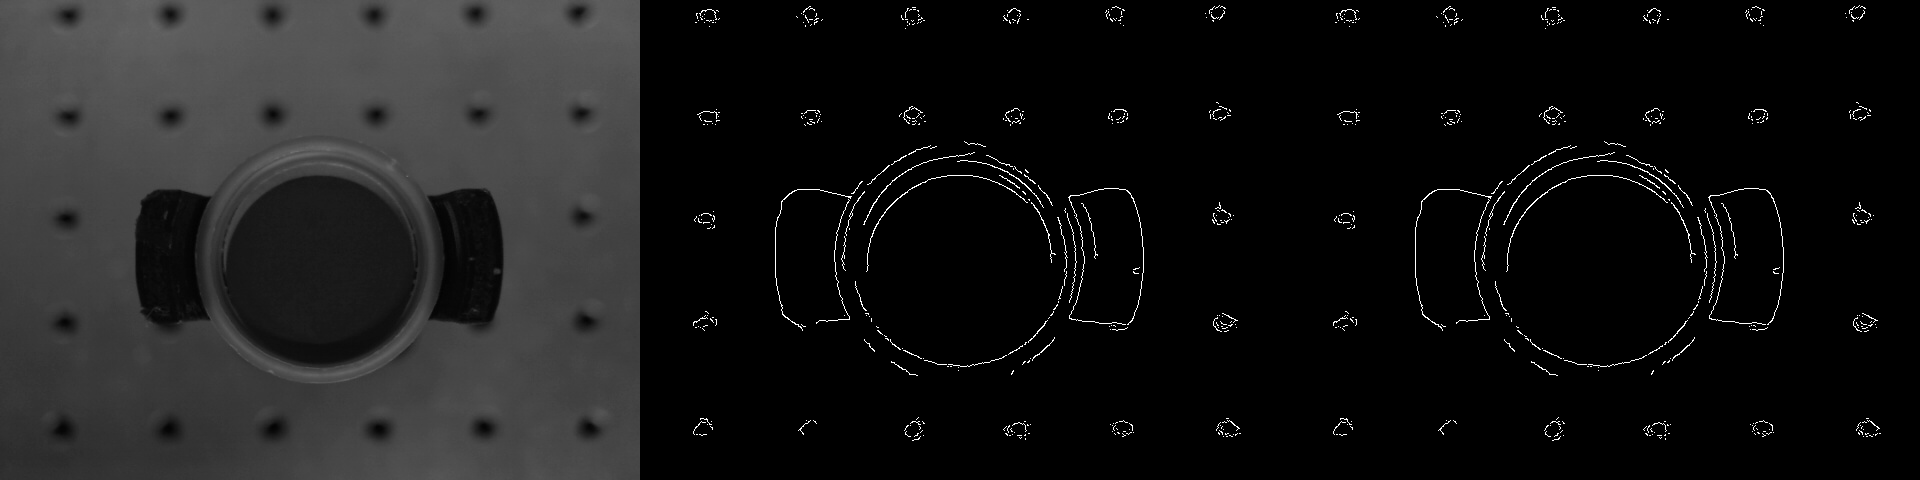
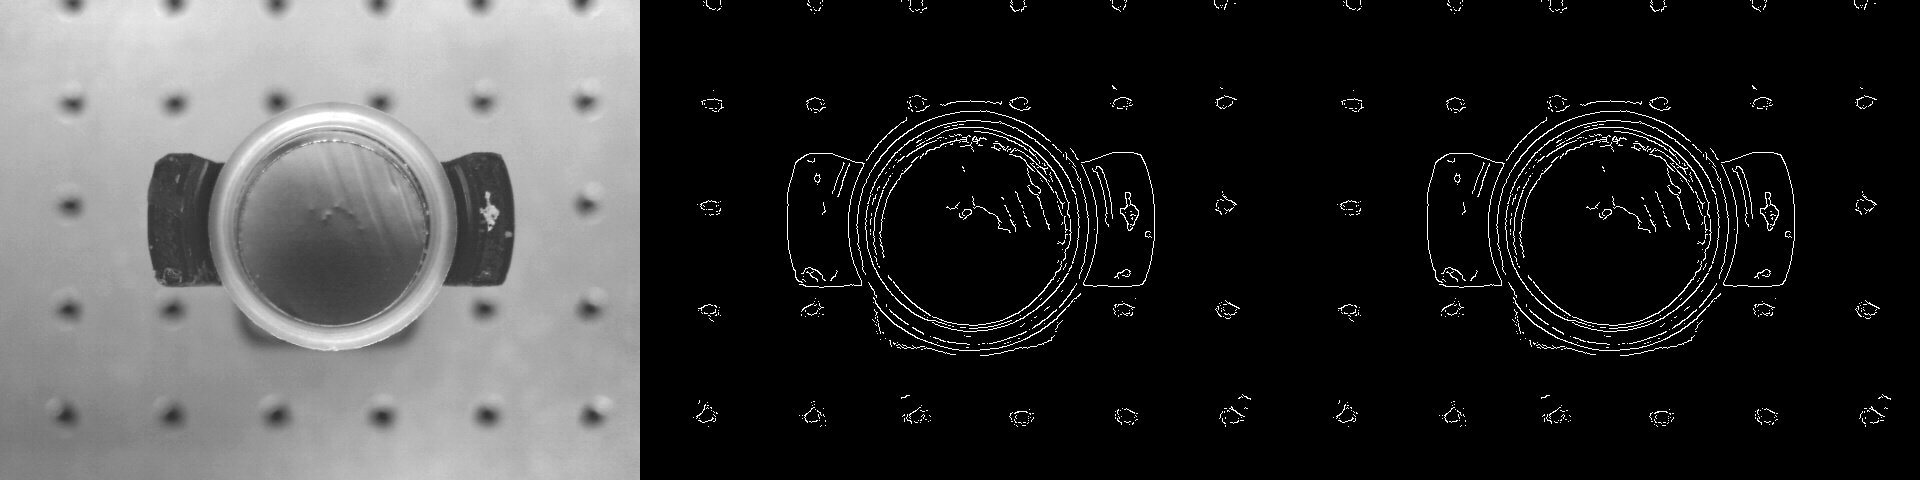
Cycle detection testing

diff --git a/circle_detection.py b/circle_detection.py
@@ -1,12 +1,16 @@
 import sys, os
+import re
 import cv2 as cv
 import numpy as np
+import matplotlib.pyplot as plt
 
 #pylint: disable=no-member
 
 CENTER = (304, 236)
 IMG_COLOR = None
 IMG_GRAY = None
+DETECTED_CASE = []
+DETECTED_ELECTRODE = []
 
 def open_image(file_name):
     # Load an color image in grayscale
@@ -19,7 +23,13 @@ def open_image(file_name):
         print ('Usage: hough_circle.py [image_name -- default ' + file_name + '] \n')
         sys.exit()
     IMG_GRAY = cv.cvtColor(IMG_COLOR, cv.COLOR_BGR2GRAY)
-    IMG_GRAY = cv.medianBlur(IMG_GRAY, 5)
+    #IMG_GRAY = cv.GaussianBlur(IMG_GRAY, (1,1), 1)
+    IMG_GRAY = cv.medianBlur(IMG_GRAY, 3)
+    #IMG_GRAY = cv.adaptiveThreshold(IMG_GRAY,255,cv.ADAPTIVE_THRESH_GAUSSIAN_C,cv.THRESH_BINARY,11,3.5)
+    #kernel = np.ones((2,2),np.uint8)
+    IMG_GRAY = cv.erode(IMG_GRAY, (3,3), iterations=1)
+    IMG_GRAY = cv.dilate(IMG_GRAY, (3,3), iterations=1)
+    #IMG_GRAY = cv.blur(IMG_GRAY, (3, 3))
     return IMG_GRAY
 
 def mark_center_of_holder(img):
@@ -31,8 +41,8 @@ def mark_center_of_holder(img):
     # radius = 115
     # cv.circle(IMG_COLOR, CENTER, radius, (255, 0, 255), 3)
     holder = cv.HoughCircles(img, cv.HOUGH_GRADIENT, 1, 100,
-                               param1=120, param2=30,
-                               minRadius=110, maxRadius=150)
+                               param1=120, param2=20,
+                               minRadius=115, maxRadius=125)
 
     if holder is not None:
         holder = np.uint16(np.around(holder))
@@ -42,16 +52,44 @@ def mark_center_of_holder(img):
             cv.circle(IMG_COLOR, center, 1, (0, 100, 100), 1)
             # circle outline
             radius = i[2]
+            DETECTED_CASE.append(radius)
             cv.circle(IMG_COLOR, center, radius, (255, 0, 255), 1)
             cv.putText(IMG_COLOR, f"Coordinates of holder: {center[0]} , {center[1]} Radius: {i[2]}", (10, 400),
                        cv.FONT_HERSHEY_SIMPLEX, 0.5, (0, 0, 255), 1)
+            #print(f"Casing: Center_({center[0]} , {center[1]}), Radius_{i[2]}")
 
-def detect_inner_circle(img):
+def mark_reference_center(img):
+    global IMG_COLOR
+    
+    # #circle center
+    # cv.circle(IMG_COLOR, CENTER, 1, (0, 100, 100), 3)
+    # #circle outline
+    # radius = 115
+    # cv.circle(IMG_COLOR, CENTER, radius, (255, 0, 255), 3)
+    holder = cv.HoughCircles(img, cv.HOUGH_GRADIENT, 1, 100,
+                               param1=120, param2=20,
+                               minRadius=10, maxRadius=20)
+
+    if holder is not None:
+        holder = np.uint16(np.around(holder))
+        for i in holder[0, :]:
+            center = (i[0], i[1])
+            # circle center
+            cv.circle(IMG_COLOR, center, 1, (0, 100, 100), 1)
+            # circle outline
+            radius = i[2]
+            DETECTED_CASE.append(radius)
+            cv.circle(IMG_COLOR, center, radius, (255, 0, 255), 1)
+            cv.putText(IMG_COLOR, f"Coordinates of Reference: {center[0]} , {center[1]} Radius: {i[2]}", (10, 400),
+                       cv.FONT_HERSHEY_SIMPLEX, 0.5, (0, 0, 255), 1)
+            #print(f"Casing: Center_({center[0]} , {center[1]}), Radius_{i[2]}")
+
+def detect_anode_circle(img):
     global IMG_COLOR
     #Detect the inner circle
     circles = cv.HoughCircles(img, cv.HOUGH_GRADIENT, 1, 100,
-                               param1=120, param2=30,
-                               minRadius=40, maxRadius=100)
+                               param1=120, param2=25,
+                               minRadius=85, maxRadius=96)
 
     # Mark the center of the inner circle
     if circles is not None:
@@ -62,27 +100,70 @@ def detect_inner_circle(img):
             cv.circle(IMG_COLOR, center, 1, (0, 100, 100), 1)
             # circle outline
             radius = i[2]
+            DETECTED_ELECTRODE.append(radius)
             cv.circle(IMG_COLOR, center, radius, (255, 0, 255), 1)
             cv.putText(IMG_COLOR, f"Coordinates of anode: {center[0]} , {center[1]}. Radius: {i[2]}", (10, 440),
                        cv.FONT_HERSHEY_SIMPLEX, 0.5, (0, 0, 255), 1)
+            #print(f"Anode: Center_({center[0]} , {center[1]}), Radius_{i[2]}")
+
+def detect_cathode_circle(img):
+    global IMG_COLOR
+    #Detect the inner circle
+    circles = cv.HoughCircles(img, cv.HOUGH_GRADIENT, 1, 100,
+                               param1=120, param2=22,
+                               minRadius=86, maxRadius=92)
+
+    # Mark the center of the inner circle
+    if circles is not None:
+        circles = np.uint16(np.around(circles))
+        for i in circles[0, :]:
+            center = (i[0], i[1])
+            # circle center
+            cv.circle(IMG_COLOR, center, 1, (0, 100, 100), 1)
+            # circle outline
+            radius = i[2]
+            DETECTED_ELECTRODE.append(radius)
+            cv.circle(IMG_COLOR, center, radius, (255, 0, 255), 1)
+            cv.putText(IMG_COLOR, f"Coordinates of cathode: {center[0]} , {center[1]}. Radius: {i[2]}", (10, 440),
+                       cv.FONT_HERSHEY_SIMPLEX, 0.5, (0, 0, 255), 1)
+            #print(f"Cathode: Center_({center[0]} , {center[1]}), Radius_{i[2]}")
 
 def main():
 
-    default_file = 'trial_anode/2022_11_17_14h_32m_53s.jpg'
+    default_file = 'trial_anode/anode/2022_11_17_14h_32m_53s.jpg'
     #default_file = sys.argv[1] if len(sys.argv) > 1  else default_file
-    for file in os.listdir("trial_anode"):
+    electrode = input("Folder to test(anode/cathode): ")
+    folder = os.path.join(r"trial_anode", electrode)
+    group = []
+    for file in os.listdir(folder):
+        group.append(re.findall(r'\d+', file)[0])
         # join the path and filename
-        path = os.path.join("trial_anode", file)
+        path = os.path.join(folder, file)
         img_gray = open_image(path)
-        mark_center_of_holder(img_gray)
         #mark_center_of_holder(img_gray)
+        mark_reference_center(img_gray)
         
         #img_circle_color = detect_inner_circle(img_color)
-        detect_inner_circle(img_gray)
+        if electrode == 'anode':
+            detect_anode_circle(img_gray)
+        elif electrode == 'cathode':
+            detect_cathode_circle(img_gray)
 
         cv.imshow("detected circles", IMG_COLOR)
-        cv.waitKey(5000)
-
+        cmd = cv.waitKey(0)
+        if cmd == ord('q'):
+            break
+        elif cmd == ord('d'):
+            continue
+    cv.destroyAllWindows()
+    plt.plot(group, DETECTED_CASE, label='Reference_radius', marker = 'o')
+    plt.plot(group, DETECTED_ELECTRODE, label=f'{electrode.capitalize()}_radius', marker = 'o')
+    plt.legend()
+    plt.xlabel(f"{electrode.capitalize()} Number")
+    plt.ylabel(f"{electrode.capitalize()} Radius")
+    plt.title(f"Detected Radius from {electrode}")
+    plt.show()
     return 0
+
 if __name__ == "__main__":
     main()

diff --git a/MSER_detection.py b/MSER_detection.py
@@ -1,0 +1,79 @@
+import cv2 as cv
+import numpy as np
+
+output = cv.LoadImage('trial_anode/anode/2022_11_17_14h_32m_53s.jpg')
+orig = cv.LoadImage('trial_anode/anode/2022_11_17_14h_32m_53s.jpg')
+
+# create tmp images
+rrr=cv.CreateImage((orig.width,orig.height), cv.IPL_DEPTH_8U, 1)
+ggg=cv.CreateImage((orig.width,orig.height), cv.IPL_DEPTH_8U, 1)
+bbb=cv.CreateImage((orig.width,orig.height), cv.IPL_DEPTH_8U, 1)
+processed = cv.CreateImage((orig.width,orig.height), cv.IPL_DEPTH_8U, 1)
+storage = cv.CreateMat(orig.width, 1, cv.CV_32FC3)
+
+def channel_processing(channel):
+    pass
+    cv.AdaptiveThreshold(channel, channel, 255, adaptive_method=cv.CV_ADAPTIVE_THRESH_MEAN_C, thresholdType=cv.CV_THRESH_BINARY, blockSize=55, param1=7)
+    #mop up the dirt
+    cv.Dilate(channel, channel, None, 1)
+    cv.Erode(channel, channel, None, 1)
+
+def inter_centre_distance(x1,y1,x2,y2):
+    return ((x1-x2)**2 + (y1-y2)**2)**0.5
+
+def colliding_circles(circles):
+    for index1, circle1 in enumerate(circles):
+        for circle2 in circles[index1+1:]:
+            x1, y1, Radius1 = circle1[0]
+            x2, y2, Radius2 = circle2[0]
+            #collision or containment:
+            if inter_centre_distance(x1,y1,x2,y2) < Radius1 + Radius2:
+                return True
+
+def find_circles(processed, storage, LOW):
+    try:
+        cv.HoughCircles(processed, storage, cv.CV_HOUGH_GRADIENT, 2, 32.0, 30, LOW)#, 0, 100) great to add circle constraint sizes.
+    except:
+        LOW += 1
+        #print'try'
+        find_circles(processed, storage, LOW)
+    circles = np.asarray(storage)
+    #print 'number of circles:', len(circles)
+    if colliding_circles(circles):
+        LOW += 1
+        storage = find_circles(processed, storage, LOW)
+    #print 'c', LOW
+    return storage
+
+def draw_circles(storage, output):
+    circles = np.asarray(storage)
+    #print len(circles), 'circles found'
+    for circle in circles:
+        Radius, x, y = int(circle[0][2]), int(circle[0][0]), int(circle[0][1])
+        cv.Circle(output, (x, y), 1, cv.CV_RGB(0, 255, 0), -1, 8, 0)
+        cv.Circle(output, (x, y), Radius, cv.CV_RGB(255, 0, 0), 3, 8, 0)
+
+#split image into RGB components
+cv.Split(orig,rrr,ggg,bbb,None)
+#process each component
+channel_processing(rrr)
+channel_processing(ggg)
+channel_processing(bbb)
+#combine images using logical 'And' to avoid saturation
+cv.And(rrr, ggg, rrr)
+cv.And(rrr, bbb, processed)
+cv.ShowImage('before canny', processed)
+# cv.SaveImage('case3_processed.jpg',processed)
+#use canny, as HoughCircles seems to prefer ring like circles to filled ones.
+cv.Canny(processed, processed, 5, 70, 3)
+#smooth to reduce noise a bit more
+cv.Smooth(processed, processed, cv.CV_GAUSSIAN, 7, 7)
+cv.ShowImage('processed', processed)
+#find circles, with parameter search
+storage = find_circles(processed, storage, 100)
+draw_circles(storage, output)
+# show images
+cv.ShowImage("original with circles", output)
+cv.SaveImage('case1.jpg',output)
+
+cv.WaitKey(0)

diff --git a/real_time_cycle.py b/real_time_cycle.py
@@ -1,0 +1,73 @@
+# import the necessary packages
+import numpy as np
+import argparse
+import cv2
+import time
+
+cap = cv2.VideoCapture(0) # Set Capture Device, in case of a USB Webcam try 1, or give -1 to get a list of available devices
+
+#Set Width and Height 
+# cap.set(3,1280)
+# cap.set(4,720)
+
+# The above step is to set the Resolution of the Video. The default is 640x480.
+# This example works with a Resolution of 640x480.
+
+while(True):
+	# Capture frame-by-frame
+	ret, frame = cap.read()
+
+	# load the image, clone it for output, and then convert it to grayscale
+			
+	output = frame.copy()
+	gray = cv2.cvtColor(frame, cv2.COLOR_BGR2GRAY)
+	
+	# apply GuassianBlur to reduce noise. medianBlur is also added for smoothening, reducing noise.
+	gray = cv2.GaussianBlur(gray,(5,5),0)
+	gray = cv2.medianBlur(gray,5)
+	
+	# Adaptive Guassian Threshold is to detect sharp edges in the Image. For more information Google it.
+	gray = cv2.adaptiveThreshold(gray,255,cv2.ADAPTIVE_THRESH_GAUSSIAN_C,\
+            cv2.THRESH_BINARY,11,3.5)
+	
+	kernel = np.ones((2.6,2.7),np.uint8)
+	gray = cv2.erode(gray,kernel,iterations = 1)
+	# gray = erosion
+	
+	gray = cv2.dilate(gray,kernel,iterations = 1)
+	# gray = dilation
+
+	# get the size of the final image
+	# img_size = gray.shape
+	# print img_size
+	
+	# detect circles in the image
+	circles = cv2.HoughCircles(gray, cv2.HOUGH_GRADIENT, 1, 260, param1=30, param2=65, minRadius=0, maxRadius=0)
+	# print circles
+	
+	# ensure at least some circles were found
+	if circles is not None:
+		# convert the (x, y) coordinates and radius of the circles to integers
+	    # circles = np.round(circles[0, :]).astype("int")
+        circles = np.uint16(np.around(circles))
+		
+		# loop over the (x, y) coordinates and radius of the circles
+		for (x, y, r) in circles:
+			# draw the circle in the output image, then draw a rectangle in the image
+			# corresponding to the center of the circle
+			cv2.circle(output, (x, y), r, (0, 255, 0), 4)
+			cv2.rectangle(output, (x - 5, y - 5), (x + 5, y + 5), (0, 128, 255), -1)
+			#time.sleep(0.5)
+			print (f"Column Number: {x}")
+			print (f"Row Number: {y}")
+			print (f"Radius is: {r}")
+
+	# Display the resulting frame
+		cv2.imshow('gray',gray)
+    cv2.imshow('frame',output)
+    if cv2.waitKey(1) & 0xFF == ord('q'):
+        break
+
+# When everything done, release the capture
+cap.release()
+cv2.destroyAllWindows()

diff --git a/anode_detection.py b/anode_detection.py
@@ -1,7 +1,7 @@
 import cv2
 import numpy as np
 #pylint: disable=no-member
-img = cv2.imread('Anode/[No2]_Anode_2022_11_07_11h_14m_00s.jpg', 0)
+img = cv2.imread('trial_anode/[No55]_Anode_2022_11_18_13h_42m_38s.jpg', 0)
 #img = cv2.threshold(img, 62, 255, cv2.THRESH_BINARY)[1]  # ensure binary
 # invert the binary image
 #img = cv2.bitwise_not(img)
@@ -33,7 +33,7 @@ def edge_detection(image):
     # Converting the image to grayscale.
     gray = image#cv2.cvtColor(image, cv2.COLOR_BGR2GRAY)
     # Extract the foreground
-    edges_foreground = cv2.bilateralFilter(gray, 9, 75, 75)
+    edges_foreground = cv2.bilateralFilter(gray, 9, 175, 75)
     foreground = fgbg.apply(edges_foreground)
     
     # Smooth out to get the moving area
